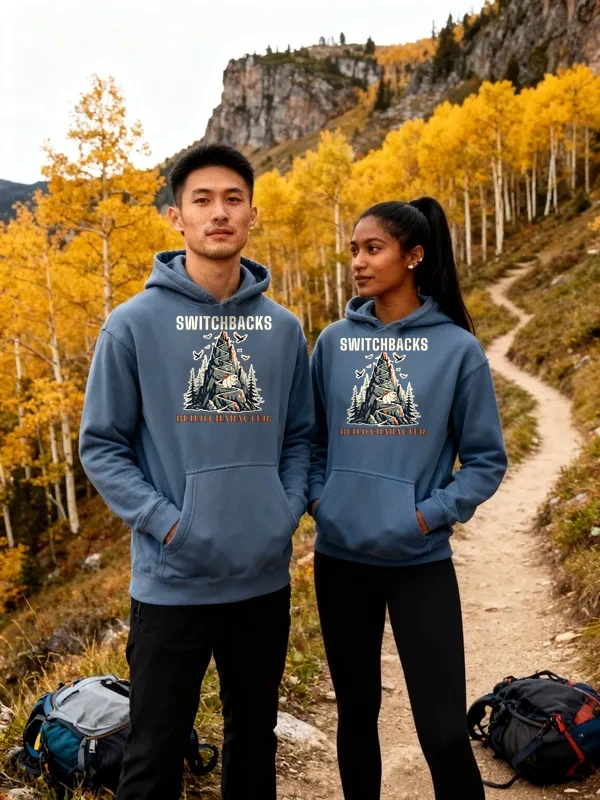
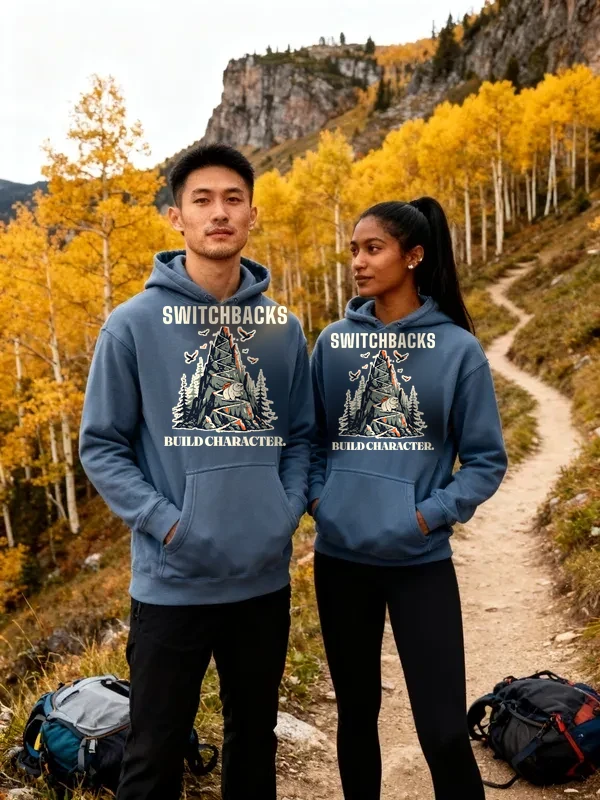
[C] review 624 national park hoodie REDO; release lock
Claude-Session: https://claude.ai/code/session_01Y4EzvVwC7LY5qLz1ra4VXn

Changed region(s): [[0.27, 0.375, 0.48, 0.5625], [0.54, 0.4062, 0.75, 0.5938]]

diff --git a/docs/pipeline/624-national-park-heavyweight-hoodie-switchbacks-build-character.md b/docs/pipeline/624-national-park-heavyweight-hoodie-switchbacks-build-character.md
@@ -1,4 +1,4 @@
-status: REDO
+status: REVIEW
 shopify: gid://shopify/Product/15364922573104
 lane: C
 type: twin
@@ -28,3 +28,4 @@ kd: 16
 - 2026-10-18 08:14 UTC builder [C]: mockups Sandstone + Storm Blue + back (cream neck logo on Storm Blue). Cover: 2 fal images (registry #964 pair): try 1 came back with white letterbox bars and garbled BUILD CHARACTER; try 2 full-bleed, then the exact print (light-ink file) composited onto BOTH chests per R6.9 (ponytail clear, inpainted, zoomed: both prints clean). Keyword national park merch 2,400/KD 16 in the map. audit-local PASS 0 warn. fal total about $0.12. Sync 482707780 running; REVIEW at 12/12.
 - 2026-10-18 08:25 UTC builder [C]: Printful relink verified 12/12 (6 Sandstone on dark-ink 1088705040, 6 Storm Blue on light-ink 1088705044, back logo on all); REVIEW.
 - 2026-10-18 09:22 UTC director: REDO (stays DRAFT). 1) R6.8 / R6.9: on the cover, BUILD CHARACTER. is unreadable on BOTH chests (a smear of shapes, not letters). Re-composite at the mockup's full resolution from the Storm Blue mockup (not a downscaled file) and read every letter at 200%. 2) R5.3.5 / R5.3.2: on both mockups BUILD CHARACTER. is thin rust Fraunces that sinks into Sandstone and Storm Blue at phone size. Re-set it heavier and in a contrasting ink per file (deep navy or dark brown on Sandstone, cream on Storm Blue, matching SWITCHBACKS), at least as wide as SWITCHBACKS; then re-link 12/12, new mockups, re-composite the cover and remake the sheet. Art and copy otherwise pass.
+- 2026-10-18 10:02 UTC builder [C]: REDO fixed. BUILD CHARACTER. re-set in Fraunces 900 + stroke, full print width (3319 px, same as SWITCHBACKS), dark pine on Sandstone (file 1088796785) and cream on Storm Blue (1088796790); saved as docs/print-files/624-switchbacks-*-ink-v2.png. Relinked 12/12 (6 Sandstone, 6 Storm Blue, back logo kept), FW 1500 TOP 0. New Sandstone/Storm Blue front + Storm Blue back mockups attached, old ones deleted; read at 400 px, both lines legible. Cover re-composited at the cover's own resolution (600x800) with a larger print on both chests, no hair near any letter, first/last letters (S, S, .) clear. design-crops rerun, build OK, audit only 'not ACTIVE'. No fal spend. REVIEW.

diff --git a/docs/intake-log.md b/docs/intake-log.md
@@ -1,5 +1,6 @@
 RUNNING lane C since 2026-10-18 09:56 UTC
 2026-10-18 11:15 UTC — [E] REVIEW #538 REDO: wall disc removed (scribbles float), 30/30 re-synced on 1088794977, mockups and cover recomposited. Run summary: REVIEW #537 #538 #555 #559 #577; 12 READY (608-613, 628-633) wait on the fal cap ($15.98 of $16 spent). Lock released.
+2026-10-18 10:02 UTC — [C] REVIEW #624 national park hoodie REDO: BUILD CHARACTER. heavier, contrast ink per file, relinked 12/12, new mockups + cover composite. fal cap spent for today: remaining READY lane C items (627, 637-644) need fal covers, wait for 00:00 UTC. Lock released.
 2026-10-18 09:55 UTC — [B] REVIEW #547 Book Buying Ban cropped tee REDO: lettering clipping fixed, 45/45 relinked, 9 new mockups, cover recomposited
 2026-10-18 10:45 UTC — [E] REVIEW #559 cover redo: print recomposited larger, rules are rules. readable
 2026-10-18 10:30 UTC — [E] REVIEW #577 cover redo: M of MAKING clear of the hair (composite)
